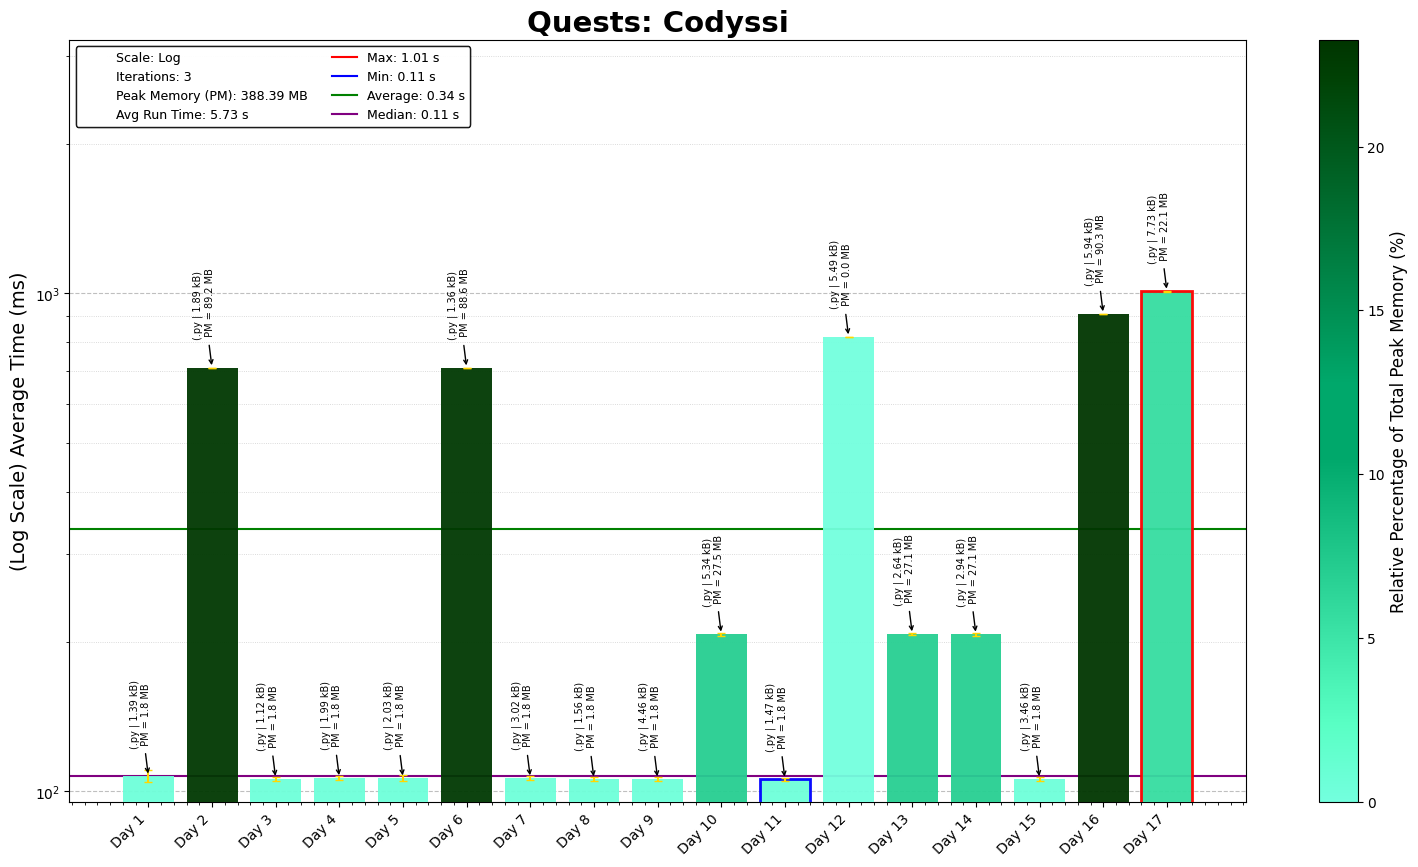
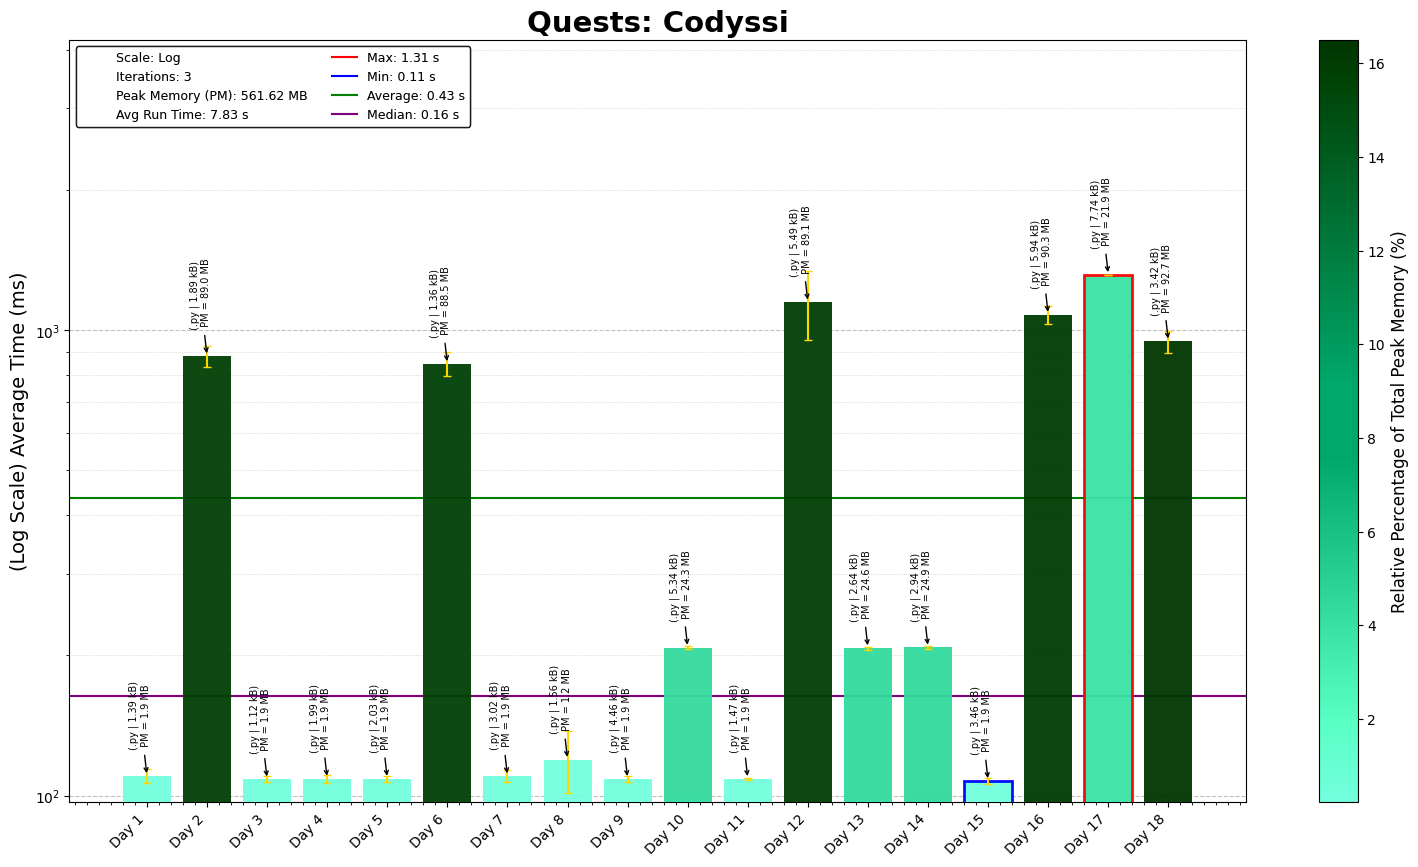
Codyssi Day 18 P1

diff --git a/Codyssi/2025/18/CodyssiDay18.py b/Codyssi/2025/18/CodyssiDay18.py
@@ -1,0 +1,97 @@
+"""Codyssi Puzzles - Problem 18
+Solution Started: May 17, 2025
+Puzzle Link: https://www.codyssi.com/view_problem_22?
+Solution by: Abbas Moosajee
+Brief: [Cataclysmic Escape]
+"""
+
+#!/usr/bin/env python3
+
+import os, re, copy, time
+from itertools import product
+import numpy as np
+import pandas as pd
+import matplotlib.pyplot as plt
+start_time = time.time()
+
+# Load the input data from the specified file path
+D18_file = "Day18_input.txt"
+D18_file_path = os.path.join(os.path.dirname(os.path.abspath(__file__)), D18_file)
+
+# Read and sort input data into a grid
+with open(D18_file_path) as file:
+    input_data = file.read().strip().split('\n')
+    feasible_spaces = {"Day18_input1.txt":(10, 15, 60, 3), "Day18_input2.txt":(3,3,5,3),
+        "Day18_input.txt":(10, 15, 60, 3), "Day18_input3.txt":(10, 15, 60, 3)}
+    feasible = feasible_spaces[D18_file]
+
+class Submarine:
+    def __init__(self, all_rules, feasible_space):
+        self.feasible_space = feasible_space
+        self.rule_dict = {}
+        for rule in all_rules:
+            self.parse_rules(rule)
+        MIN_LIMITS = (0, 0, 0, -1)
+        self.space_region = {
+            "x" : range(MIN_LIMITS[0], feasible_space[0]),
+            "y" : range(MIN_LIMITS[1], feasible_space[1]),
+            "z" : range(MIN_LIMITS[2], feasible_space[2]),
+            "a" : range(MIN_LIMITS[3], feasible_space[3] -1)
+        }
+        self.all_coords = list(product(self.space_region['x'], self.space_region['y'], \
+                                self.space_region['z'], self.space_region['a']))
+
+    def parse_rules(self, rule):
+
+        # Split rule into rule number and description
+        rule_no_str, info = rule.split(': ', 1)
+        rule_no = int(rule_no_str.strip("RULE "))
+
+        # Regex to extract coefficients and velocity
+        pattern = (
+            r"(\d+)x\+(\d+)y\+(\d+)z\+(\d+)a DIVIDE (\d+) HAS REMAINDER (\d+)"
+            r" \| DEBRIS VELOCITY \((-?\d+), (-?\d+), (-?\d+), (-?\d+)\)"
+        )
+
+        match = re.match(pattern, info)
+        values = list(map(int, match.groups()))
+
+        # Build parsed dictionary
+        parsed_data = {
+            "x": values[0], "y": values[1], "z": values[2], "a": values[3],
+            "div": values[4], "rem": values[5],
+            "vx": values[6], "vy": values[7], "vz": values[8], "va": values[9],
+        }
+
+        # Store in rule_dict
+        self.rule_dict[rule_no] = parsed_data
+
+    def __check_debris(self, coords, rule_no):
+        rule_check = self.rule_dict[rule_no]
+        debris_total = (
+            (rule_check['x'] * coords[0]) + (rule_check['y'] * coords[1]) +\
+            (rule_check['z'] * coords[2]) + (rule_check['a'] * coords[3])
+            )
+        if (debris_total % rule_check["div"]) == rule_check["rem"]:
+            return True
+        else:
+            return False
+
+    def count_debris(self):
+        debris_dict = {}
+        count = 0
+        for coords in self.all_coords:
+            for rule in self.rule_dict:
+                check = self.__check_debris(coords, rule)
+                if check:
+                    count += 1
+                    debris_dict.setdefault(rule, set()).add(coords)
+        # total_debris = {rule: len(debris) for rule, debris in debris_dict.items()}
+        return count
+
+sub = Submarine(input_data, feasible)
+
+debris = sub.count_debris()
+print("Part 1:", debris)
+
+print(f"Execution Time = {time.time() - start_time:.5f}s")

diff --git a/Codyssi/2025/17/CodyssiDay17.py b/Codyssi/2025/17/CodyssiDay17.py
@@ -187,5 +187,5 @@ print("Part 2:", multiple_stairs)
 ranked_path = stairs.find_safest_path("S1", multiple_stairs)
 print("Part 3:", ranked_path)
 
-print(f"Execution Time = {time.time() - start_time:.5f}s")
+# print(f"Execution Time = {time.time() - start_time:.5f}s")
 

diff --git a/Codyssi/2025/README_Codyssi2025.md b/Codyssi/2025/README_Codyssi2025.md
@@ -20,4 +20,5 @@
 15. **Problem 15 - Artifacts at Atlantis**: Build a network of connected artifacts, and navigate across the layers to achieve desired goals.
 16. **Problem 16 - Leviathan Mindscape**: Build a 3D cube, add values to its tiles and twist it.
 17. **Problem 17 - Spiralling Stairs**: Build a spiral staircase and identify valid number of paths.
+18. **Problem 18 - Cataclysmic Escape**: Particle Tracking in a 4-dimensional space.
 ---
